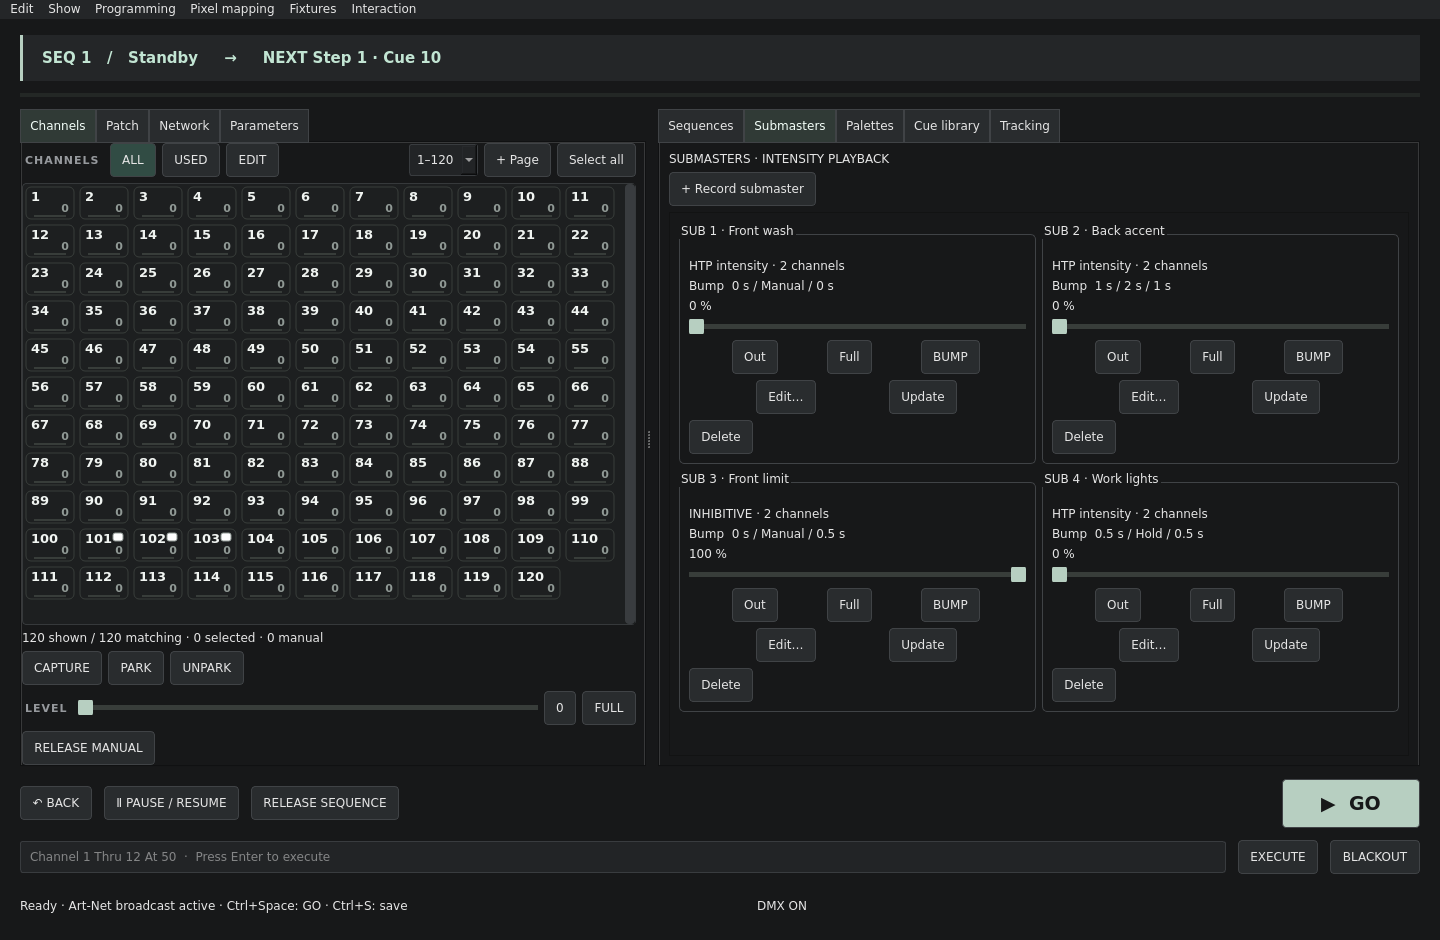
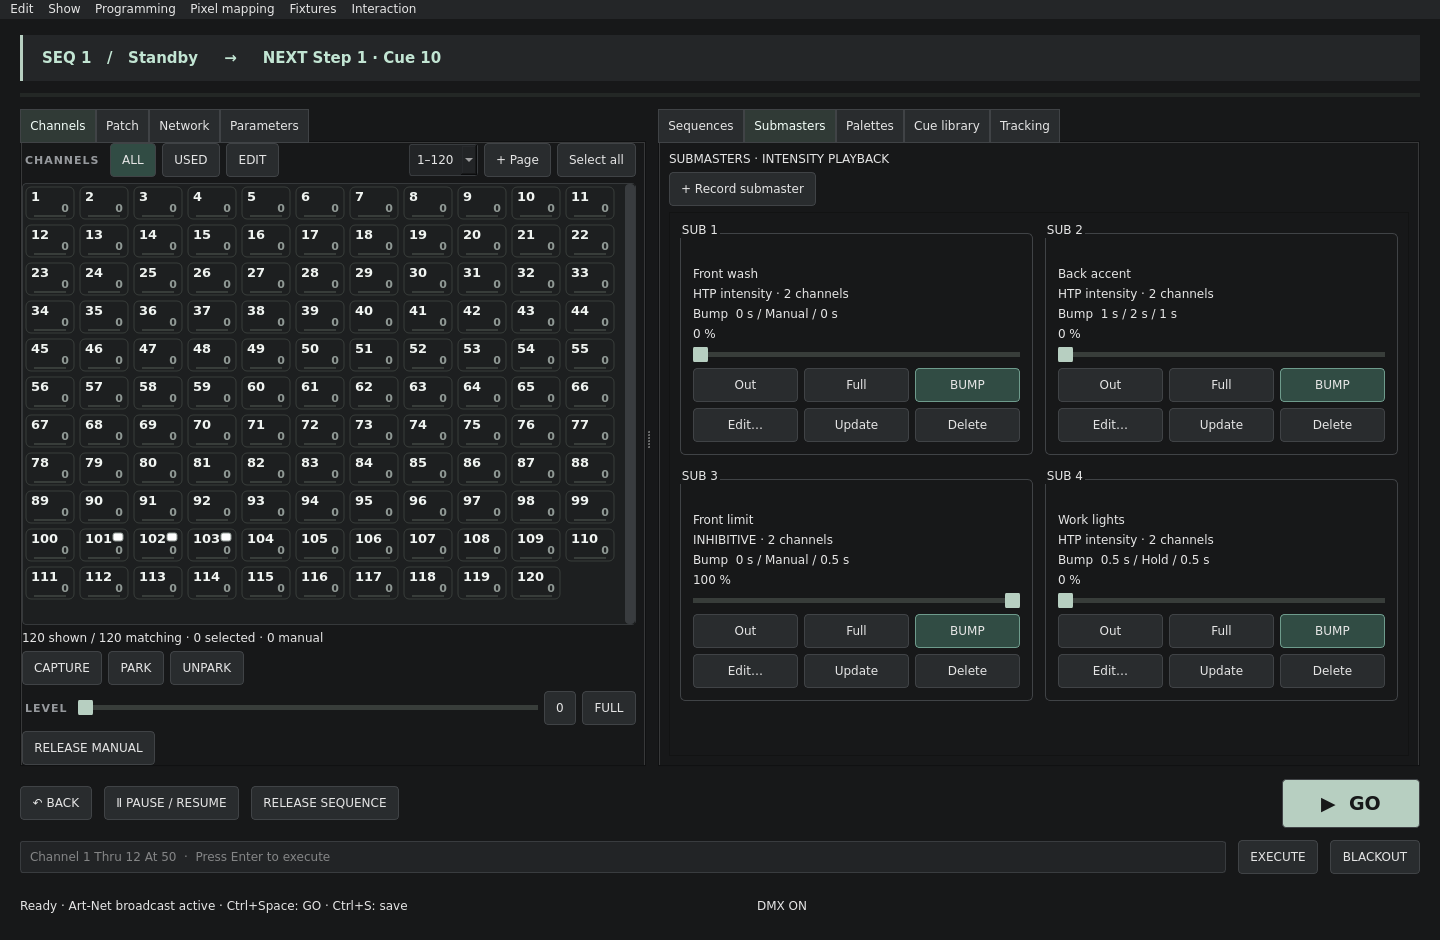
Group submaster actions and adapt cards to pane width

diff --git a/src/main.cpp b/src/main.cpp
@@ -1,3 +1,4 @@
+#include "cardbank.h"
 #include "palettereferences.h"
 #include "blinddialog.h"
 #include "channeldelegate.h"
@@ -580,14 +581,17 @@ class Console : public QMainWindow {
         for (int i = 0; i < engine.submasters.size(); ++i)
             if (engine.submasters[i].dwell == Submaster::Dwell::Manual && engine.submasters[i].pressed)
                 engine.bumpSubmaster(i, false);
-        auto content = new QWidget;
-        auto grid = new QGridLayout(content);
-        grid->setAlignment(Qt::AlignTop | Qt::AlignLeft);
+        auto content = new CardBank(subBank);
         for (int i = 0; i < engine.submasters.size(); ++i) {
             const auto &sub = engine.submasters[i];
-            auto card = new QGroupBox(QString("SUB %1 · %2").arg(sub.number).arg(sub.name));
-            card->setMinimumWidth(220);
+            auto card = new QGroupBox(QString("SUB %1").arg(sub.number));
+            card->setObjectName(QString("subCard%1").arg(sub.number));
+            card->setMinimumWidth(280);
             auto layout = new QVBoxLayout(card);
+            layout->setContentsMargins(12, 18, 12, 12); layout->setSpacing(6);
+            auto name = new QLabel(sub.name); name->setTextFormat(Qt::PlainText); name->setWordWrap(true);
+            name->setSizePolicy(QSizePolicy::Ignored, QSizePolicy::Preferred);
+            layout->addWidget(name);
             layout->addWidget(new QLabel(QString("%1 · %2 channels").arg(sub.mode == Submaster::Mode::Inhibitive ? "INHIBITIVE" : "HTP intensity").arg(sub.values.size())));
             const QString dwellText = sub.dwell == Submaster::Dwell::Timed ? QString::number(sub.dwellTime) + " s"
                 : sub.dwell == Submaster::Dwell::Hold ? "Hold" : "Manual";
@@ -605,18 +609,26 @@ class Console : public QMainWindow {
                 value->setText(QString::number(v) + " %");
                 refresh();
             });
-            auto controls = new QHBoxLayout;
-            button("Out", controls, [this, i] { engine.setSubmasterLevel(i, 0); refresh(); });
-            button("Full", controls, [this, i] { engine.setSubmasterLevel(i, 1); refresh(); });
-            auto bump = button("BUMP", controls, [] {});
+            auto actions = new QGridLayout; actions->setSpacing(6);
+            auto action = [&](QString text, int row, int col, QString object, std::function<void()> callback) {
+                auto control = new QPushButton(text);
+                control->setObjectName(object + QString::number(sub.number));
+                control->setSizePolicy(QSizePolicy::Expanding, QSizePolicy::Fixed);
+                actions->addWidget(control, row, col);
+                connect(control, &QPushButton::clicked, this, callback);
+                return control;
+            };
+            for (int col = 0; col < 3; ++col) actions->setColumnStretch(col, 1);
+            action("Out", 0, 0, "subOut", [this, i] { engine.setSubmasterLevel(i, 0); refresh(); });
+            action("Full", 0, 1, "subFull", [this, i] { engine.setSubmasterLevel(i, 1); refresh(); });
+            auto bump = action("BUMP", 0, 2, "subBump", [] {});
+            bump->setStyleSheet("QPushButton{background:#314c44;border-color:#6e9b8c;} QPushButton:hover{background:#3a5b50;}");
             bump->setObjectName(QString("subBump%1").arg(sub.number));
             bump->setStatusTip("Bump uses Up / Dwell / Down timing. Manual: hold the button. Hold: press again to release. Inhibitive bumps go to Out.");
             connect(bump, &QPushButton::pressed, this, [this, i] { engine.bumpSubmaster(i, true); refresh(); });
             connect(bump, &QPushButton::released, this, [this, i] { engine.bumpSubmaster(i, false); refresh(); });
-            layout->addLayout(controls);
-            auto edit = new QHBoxLayout;
-            button("Edit…", edit, [this, i] { editSubmaster(i); })->setObjectName(QString("editSub%1").arg(sub.number));
-            button("Update", edit, [this, i] {
+            action("Edit…", 1, 0, "editSub", [this, i] { editSubmaster(i); });
+            action("Update", 1, 1, "updateSub", [this, i] {
                 // Updating stored content must not record this submaster's own contribution.
                 const double level = engine.submasters[i].level;
                 engine.submasters[i].level = engine.submasters[i].home();
@@ -630,16 +642,16 @@ class Console : public QMainWindow {
                 QTimer::singleShot(0, this, [this] { rebuildSubmasters(); });
                 message("Submaster updated from live output · selected channels, or all if none selected");
             });
-            layout->addLayout(edit);
-            button("Delete", layout, [this, i] {
+            action("Delete", 1, 2, "deleteSub", [this, i] {
                 engine.submasters.removeAt(i);
                 changed();
                 QTimer::singleShot(0, this, [this] { rebuildSubmasters(); });
             });
-            grid->addWidget(card, i / 2, i % 2);
+            layout->addLayout(actions);
+            content->addCard(card);
         }
         if (engine.submasters.isEmpty())
-            grid->addWidget(new QLabel("No submasters yet. Set a look, then Record submaster."), 0, 0);
+            content->addCard(new QLabel("No submasters yet. Set a look, then Record submaster."));
         if (auto previous = subBank->takeWidget()) previous->deleteLater();
         subBank->setWidget(content);
     }

diff --git a/tests/ui_test.cpp b/tests/ui_test.cpp
@@ -28,6 +28,48 @@ class UiTests : public QObject {
         table->customContextMenuRequested(point);
     }
   private slots:
+    void submasterCardActionsStayGroupedOnResize() {
+        Engine e;
+        for (int i = 1; i <= 4; ++i) {
+            Submaster sub; sub.number = i; sub.name = QString("Wash %1").arg(i);
+            sub.values[i] = 80; sub.dwell = Submaster::Dwell::Hold; e.submasters << sub;
+        }
+        QTemporaryFile file; QVERIFY(file.open()); file.write(QJsonDocument(e.json()).toJson()); file.flush();
+        Console window(file.fileName(), false); window.resize(1440, 940); window.show();
+        window.findChild<QTabWidget *>("workspaceTabs")->setCurrentIndex(1);
+        QCoreApplication::processEvents();
+        auto bank = window.findChild<QWidget *>("submasterCards"); QVERIFY(bank);
+        auto scroll = qobject_cast<QScrollArea *>(bank->parentWidget()->parentWidget()); QVERIFY(scroll);
+        auto first = window.findChild<QGroupBox *>("subCard1");
+        auto second = window.findChild<QGroupBox *>("subCard2");
+        QTRY_COMPARE(first->y(), second->y()); QVERIFY(second->x() > first->x());
+        for (int id = 1; id <= 4; ++id) {
+            auto card = window.findChild<QGroupBox *>(QString("subCard%1").arg(id));
+            QList<QPushButton *> buttons;
+            for (const auto &prefix : {"subOut", "subFull", "subBump", "editSub", "updateSub", "deleteSub"})
+                buttons << card->findChild<QPushButton *>(QString(prefix) + QString::number(id));
+            for (auto button : buttons) { QVERIFY(button); QVERIFY(button->height() >= 32); QVERIFY(card->rect().contains(button->geometry())); }
+            for (int col = 0; col < 3; ++col) {
+                QCOMPARE(buttons[col]->y(), buttons[0]->y());
+                QCOMPARE(buttons[col + 3]->y(), buttons[3]->y());
+                QCOMPARE(buttons[col]->x(), buttons[col + 3]->x());
+                QVERIFY(qAbs(buttons[col]->width() - buttons[0]->width()) <= 1);
+                if (col) QCOMPARE(buttons[col]->x() - buttons[col - 1]->geometry().right() - 1, 6);
+            }
+            QVERIFY(buttons[3]->y() > buttons[0]->geometry().bottom());
+        }
+        QPointer<QPushButton> bump = window.findChild<QPushButton *>("subBump1"); bump->click();
+        auto channels = window.findChild<QListWidget *>("channelList");
+        QCOMPARE(channels->item(0)->data(Qt::UserRole + 1).toDouble(), 80.);
+        window.resize(1100, 720); QCoreApplication::processEvents();
+        QTRY_COMPARE(first->x(), second->x()); QVERIFY(second->y() > first->y());
+        QTRY_COMPARE(scroll->horizontalScrollBar()->maximum(), 0);
+        QVERIFY(bump); QCOMPARE(window.findChild<QPushButton *>("subBump1"), bump.data());
+        QCOMPARE(channels->item(0)->data(Qt::UserRole + 1).toDouble(), 80.);
+        window.resize(1440, 940); QCoreApplication::processEvents();
+        QTRY_COMPARE(first->y(), second->y()); bump->click();
+        QCOMPARE(channels->item(0)->data(Qt::UserRole + 1).toDouble(), 0.);
+    }
     void submasterBumpModesAndSettings() {
         Engine e; Submaster sub; sub.values[1] = 80; e.submasters << sub;
         QTemporaryFile file; QVERIFY(file.open()); file.write(QJsonDocument(e.json()).toJson()); file.flush();

diff --git a/src/cardbank.h b/src/cardbank.h
@@ -1,0 +1,40 @@
+#pragma once
+#include <QtWidgets>
+
+// Reflow existing cards when the viewport changes. Resizing must not recreate
+// playback buttons or interrupt a held/timed submaster.
+class CardBank : public QWidget {
+    QScrollArea *scroll;
+    QGridLayout *grid;
+    QList<QWidget *> cards;
+    int columns = 0;
+    void reflow(bool force = false) {
+        const auto margins = grid->contentsMargins();
+        const int available = scroll->viewport()->width() - margins.left() - margins.right();
+        const int next = qMax(1, qMin(int(cards.size()), (available + grid->horizontalSpacing()) /
+            (280 + grid->horizontalSpacing())));
+        if (next == columns && !force) return;
+        for (int col = 0; col < columns; ++col) grid->setColumnStretch(col, 0);
+        while (auto item = grid->takeAt(0)) delete item;
+        columns = next;
+        for (int col = 0; col < columns; ++col) grid->setColumnStretch(col, 1);
+        for (int i = 0; i < cards.size(); ++i) grid->addWidget(cards[i], i / columns, i % columns);
+        grid->invalidate(); updateGeometry();
+    }
+  public:
+    explicit CardBank(QScrollArea *area) : scroll(area), grid(new QGridLayout(this)) {
+        setObjectName("submasterCards");
+        grid->setContentsMargins(10, 8, 10, 8); grid->setSpacing(12);
+        grid->setAlignment(Qt::AlignTop);
+        scroll->viewport()->installEventFilter(this);
+    }
+    void addCard(QWidget *card) {
+        cards << card;
+        reflow(true);
+    }
+  protected:
+    bool eventFilter(QObject *object, QEvent *event) override {
+        if (object == scroll->viewport() && event->type() == QEvent::Resize) reflow();
+        return QWidget::eventFilter(object, event);
+    }
+};

diff --git a/docs/SUBMASTERS.md b/docs/SUBMASTERS.md
@@ -6,6 +6,8 @@ Try [`examples/submaster-playback.cfl`](../examples/submaster-playback.cfl) for 
 
 Submasters control intensity only. **Additive** contributes stored levels using HTP. **Inhibitive** scales the live intensity of its included channels, including manual intensity. It generates no levels itself. Inhibitive mode uses channel membership, so the level column is hidden in its editor. Color, position and other parameters remain independent.
 
+Each card groups live controls (**Out / Full / Bump**) above stored-content actions (**Edit / Update / Delete**). Cards adapt to the available width, using a single column in narrow panes. Resizing keeps the same controls and leaves ongoing playback intact.
+
 Use **Edit…** on a card to set its mode, membership and bump timing. Save applies the definition; Cancel leaves it unchanged. Changing mode returns that submaster to its new home position: Out for additive, Full for inhibitive. Editing timing cancels its current bump at the current level. Full and Out explicitly set a level and cancel timing.
 
 ## Bump timing
